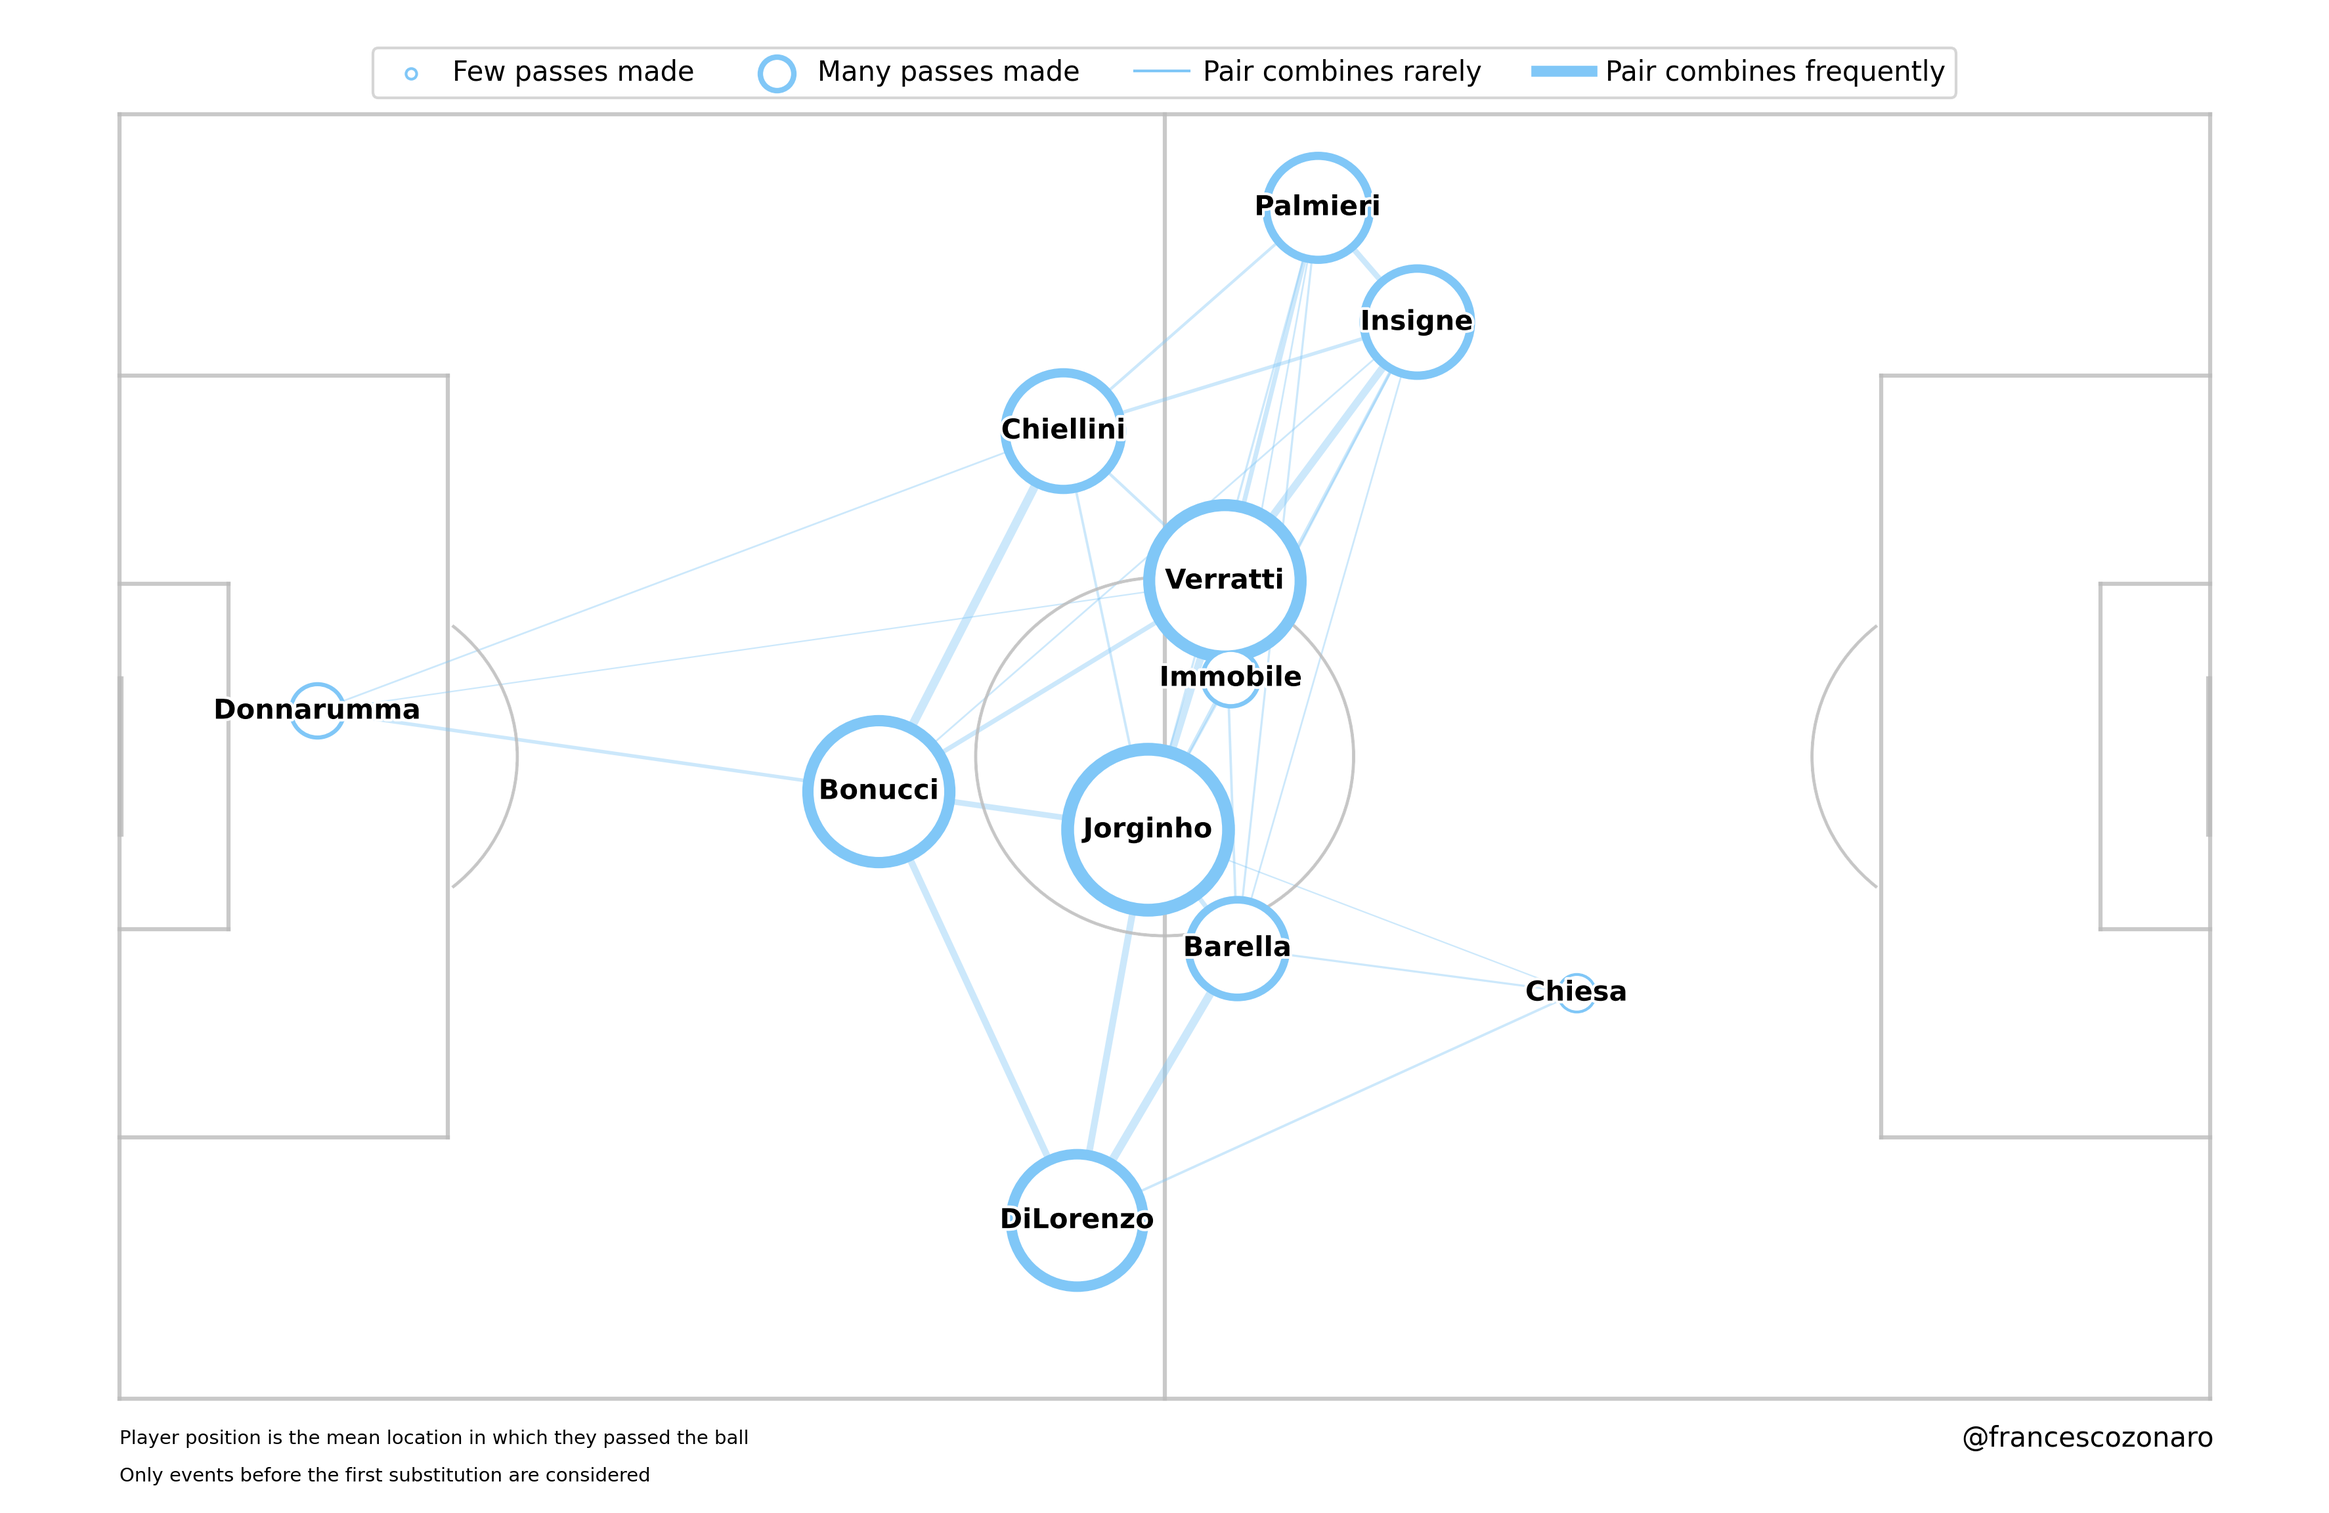
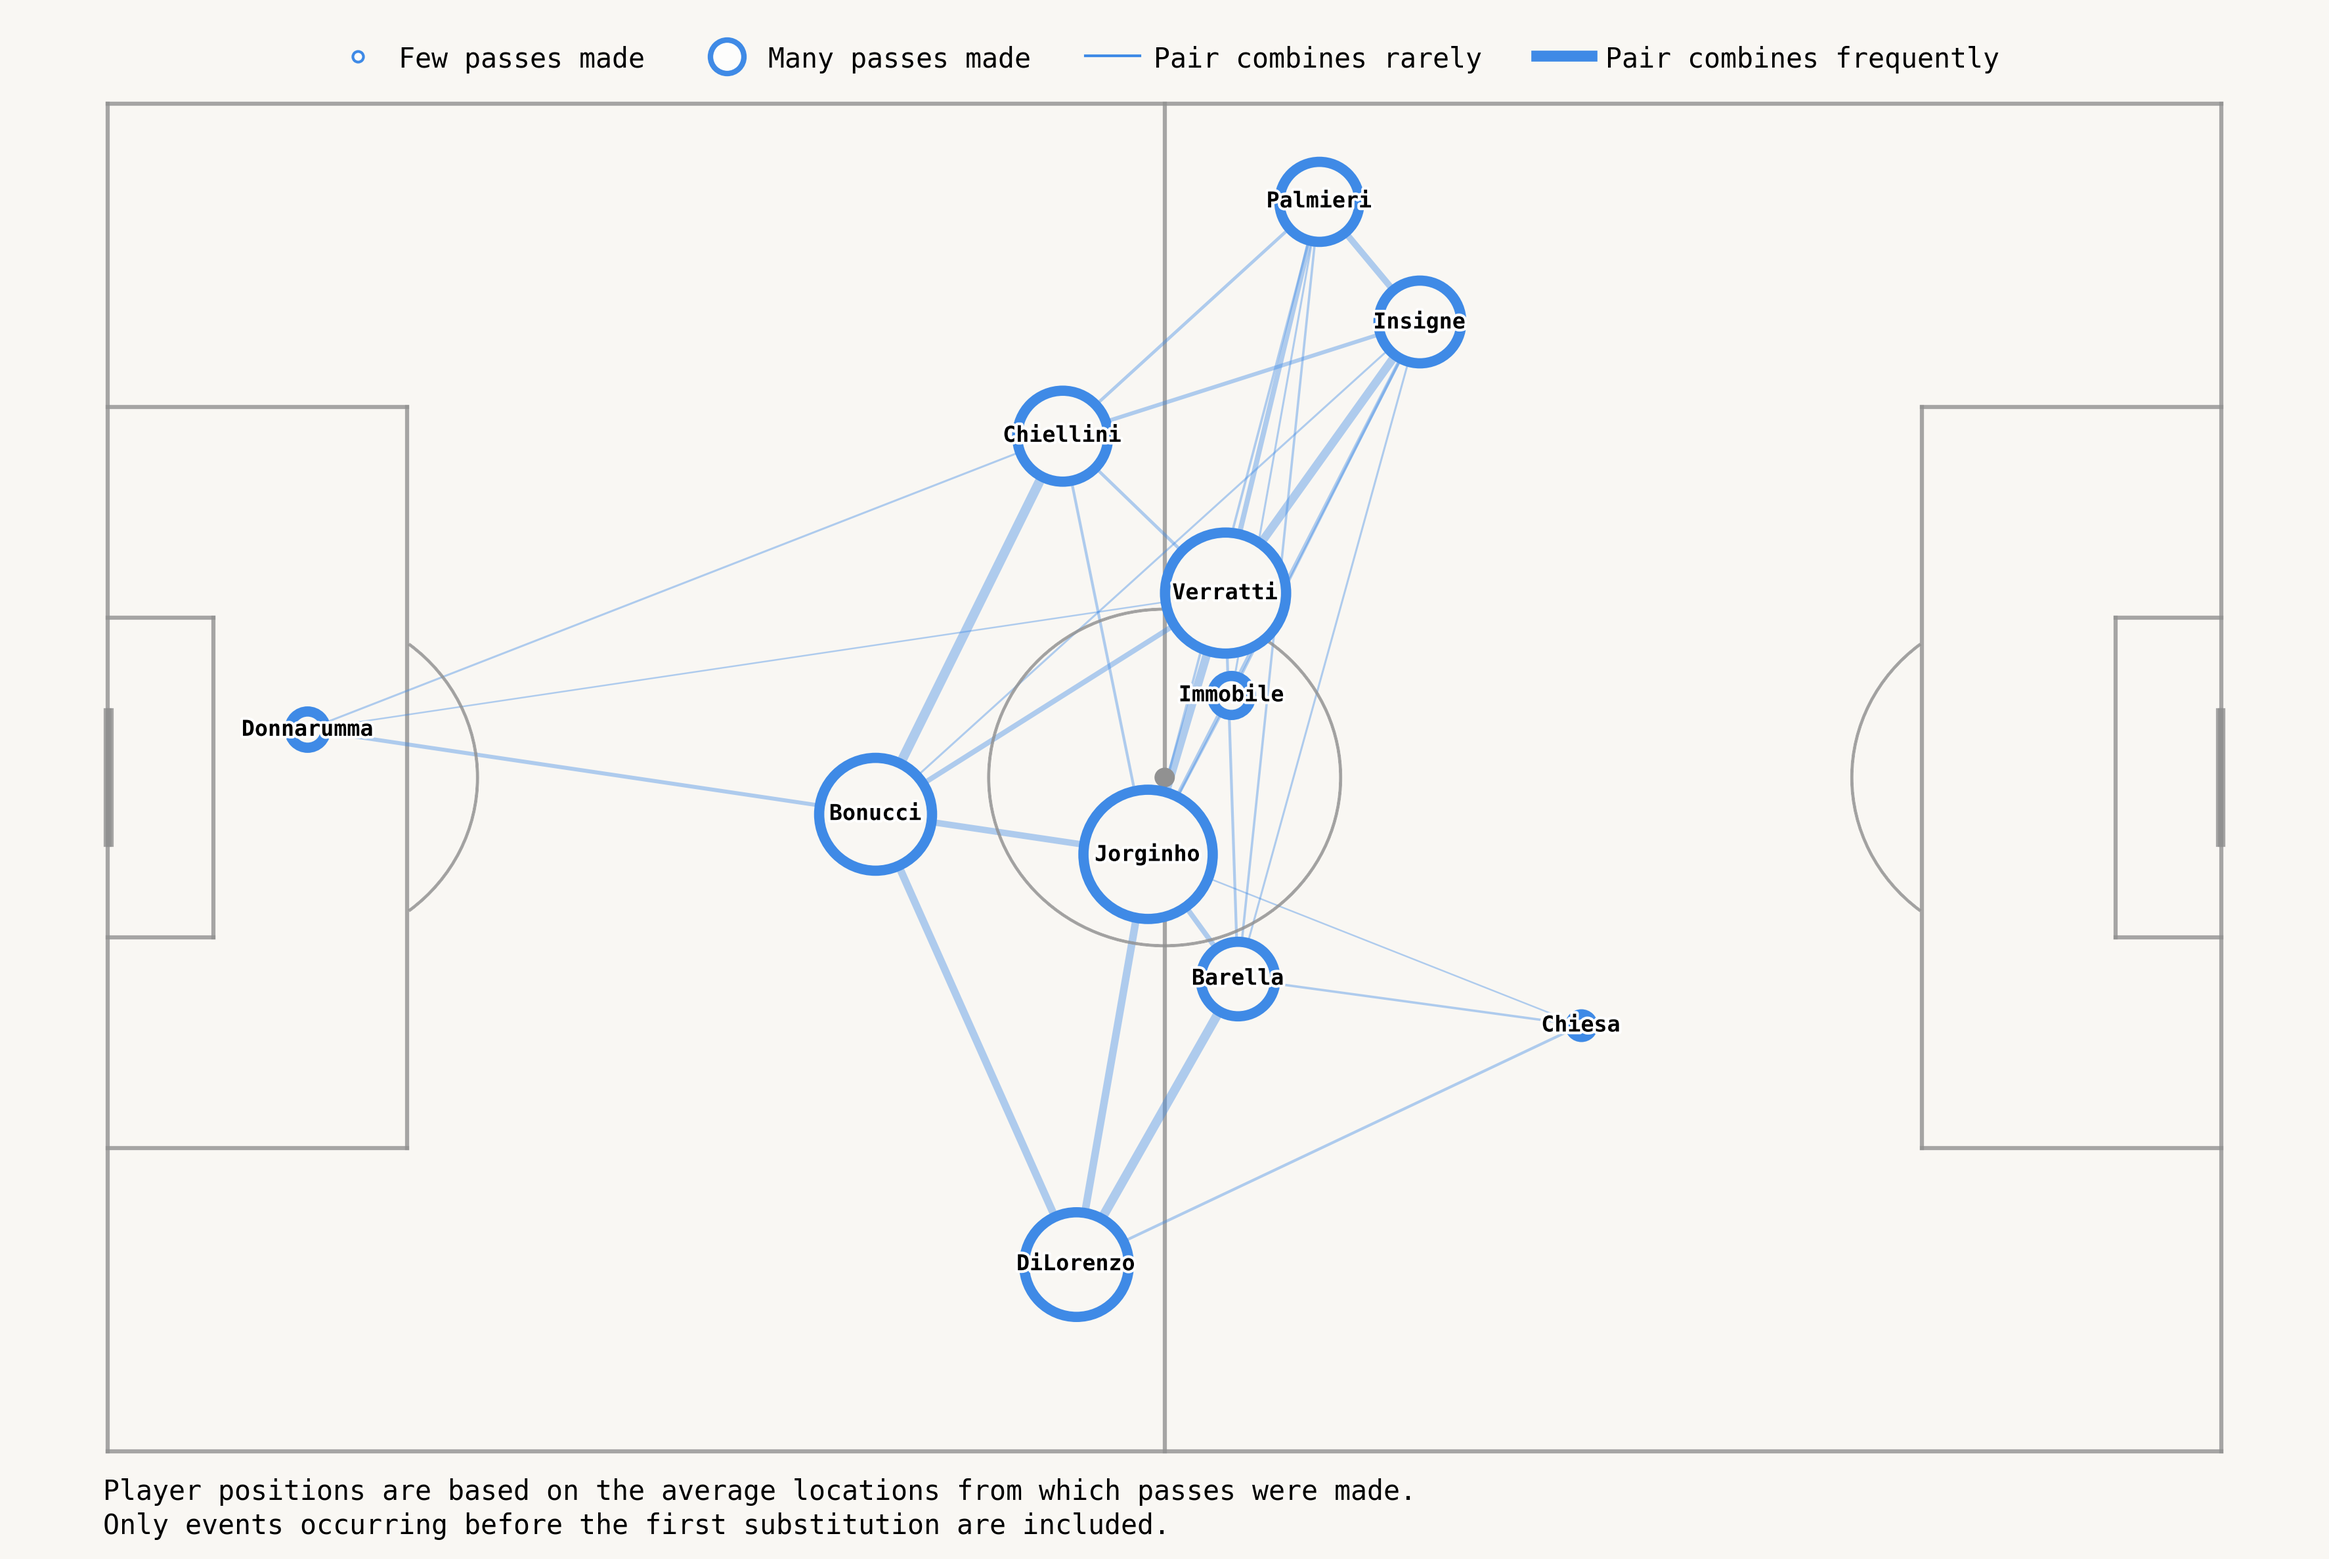
reworking texts

diff --git a/src/statsbomb-showcase/StatsbombShowcase.jsx b/src/statsbomb-showcase/StatsbombShowcase.jsx
@@ -22,13 +22,12 @@ function StatsbombShowcase() {
       <div className="mt-12">
         <div className="leading-6 text-justify">
           Understanding a football team's dynamics is hardly a standardized
-          process since it involves considering various key factors like
-          players' quality and depth, manager's philosophy, team chemistry,
-          tactical adaptability, current form and so on. The following visuals
-          are meant to offer a glimpse into what can be done with Statsbomb
-          official data, reflecting my own curiosity about its potential
-          applications. The code developed to generate these visuals, utilizing
-          the free data provided by Statsbomb, is available in the{" "}
+          process — it involves considering factors like player quality and
+          depth, managerial philosophy, team chemistry, current form and many
+          more. The following visuals explore what can be done with Statsbomb's
+          official data, reflecting my own curiosity about its potential. The
+          code developed to generate these visuals, referencing the free data
+          provided by Statsbomb, is available in the{" "}
           <a
             href="https://github.com/francescozonaro/statsbombplot"
             target="_blank"
@@ -42,15 +41,14 @@ function StatsbombShowcase() {
       <div className="section-wrapper">
         <div className="visual-title">Generic events scatterplot</div>
         <div className="visual-description">
-          Mapping the location of certain events on the pitch can be highly
-          valuable in pinpointing specific zones where the team executes
-          particular actions, enabling strategic analysis and targeted
-          performance optimization. It can be a single event type (eg. Pressure,
-          Dribble, Shot, etc.) or a group of events (eg. Def. Action: Block,
-          Clearance, Interception, Ball Recovery). The following examples
-          highlight Italy's pressures and defensive actions during the EURO 2020
-          Final against England, with a focus on the mean height of the events,
-          which is represented by the dotted red line.
+          Mapping the location of certain events on the pitch helps pinpoint
+          specific zones where the team executes particular actions, revealing
+          patterns that inform tactical decisions. It can cover a single event
+          type (e.g. Pressure, Dribble, Shot, etc.) or a group of events (e.g.
+          Defensive Actions: Block, Clearance, Interception, Ball Recovery). The
+          examples below highlight Italy's pressures and defensive actions
+          during the EURO 2020 Final against England. Note that the dotted red
+          line marks the average vertical position of each event cluster.
         </div>
 
         <div className="visual-previews">
@@ -80,18 +78,15 @@ function StatsbombShowcase() {
       <div className="section-wrapper">
         <div className="visual-title">Shotmap</div>
         <div className="visual-description">
-          One of the most common visuals when analysing a football match. It can
-          be helpful when trying to find shooting patterns and can offer
-          insights into the spatial distribution of the shots taken by a certain
-          team, helping to identify strengths and weaknesses. In this example,
-          different shot types (Goal, On Target, Off Target) are identified with
-          different markers. The size of the marker is directly proportional to
-          the xG associated with the shot. The following example illustrates the
-          shotmap of the Euro 2020 Final. The shot distribution reflects Italy's
-          need to get back into the game after Luke Shaw's early goal and their
-          willingness to take more risks, while England's shotmap suggests a
-          more cautious approach, relying on high-quality chances created within
-          the box.
+          A staple of football analytics, shot maps help identify shooting
+          patterns and the spatial distribution of attempts, highlighting teams
+          strengths and weaknesses in front of goal. Each shot type (Goal, On
+          Target, Off Target) is distinguished by marker shape, with deeper
+          color indicating higher xG. The example below shows the shotmap of the
+          Euro 2020 Final. Italy's distribution reflects their need to get back
+          into the game after Luke Shaw's early goal and their willingness to
+          take more risks, while England's suggests a more cautious approach,
+          relying on high-quality chances created within the box.
         </div>
 
         <div className="visual-previews">
@@ -111,26 +106,24 @@ function StatsbombShowcase() {
       <div className="section-wrapper">
         <div className="visual-title">Progressive actions map</div>
         <div className="visual-description">
-          Ball progression is a very valuable skill a player can have,
-          especially if performed in the opponent half. Even when the carry/pass
-          is not directly creating the opportunity for a shot, bringing the ball
-          forward is of course fundamental to reach favourable positions where
-          playmakers can find the final defence-splitting pass. Various
-          adjustments can be made in what can be considered a slightly more
-          refined yet still very simple plot. In this case the{" "}
+          Ball progression — especially in the opponent's half — is one of the
+          most valuable skills in modern football. Even when a carry or pass
+          doesn't directly create a shooting opportunity, bringing the ball
+          forward is fundamental to reach favourable positions where playmakers
+          can find that final defence-splitting pass. This plot applies the{" "}
           <a
             href="https://dataglossary.wyscout.com/progressive_pass/"
             target="_blank"
           >
             wyscout definition of Progressive Action
           </a>{" "}
-          has been used to determine eligible actions, but there are various
-          other possible implementations. The following example illustrates the
-          progressive actions attempted and completed by Federico Chiesa during
-          the Euro 2020 Final. One of the players with the most carried meters
-          in the final, Chiesa's progressive actions were crucial in Italy's
-          offensive play, as they often led to key attacking opportunities and
-          helped to break down England's defensive structure.
+          to determine eligible actions, though other definitions can be applied
+          just as easily. The example below shows both attempted and completed
+          progressive actions by Federico Chiesa during the Euro 2020 Final.
+          Among the players with the most carried meters in the final, Chiesa's
+          progressive actions were crucial in Italy's offensive play, as they
+          often led to key attacking opportunities, breaking down England's
+          defensive structure.
         </div>
 
         <div className="visual-previews">
@@ -164,16 +157,16 @@ function StatsbombShowcase() {
           interactions, and overall playing strategies. It visualizes passing
           patterns between players during a match, helping to understand how
           possession is distributed and identify key playmakers. The following
-          example illustrates the passing network of the Italian team during the
-          Euro 2020 Final, where the thickness of the edges is proportional to
-          the number of passes exchanged between players and the size of the
+          example illustrates the passing networks during the Euro 2020 Final
+          between Italy and England. The thickness of the edges is proportional
+          to the number of passes exchanged between players and the size of the
           nodes is proportional to the total number of passes attempted by each
-          player. The plot highlights the central role of Jorginho in Italy's
-          build-up play, as well as the significant involvement of players like
-          Verratti and Barella in maintaining possession and facilitating ball
-          circulation. Additionally, it reveals the strong usage of the
-          defensive line during build up, with players like Bonucci and
-          Chiellini frequently involved in the passing sequences.
+          player. Focusing on Italy's network, the plot highlights the central
+          role of Jorginho in the build-up play, as well as the significant
+          contributions of Verratti and Barella in maintaining possession.
+          Additionally, it reveals the heavy involvement of the defensive line
+          during build up, with players like Bonucci and Chiellini frequently
+          involved in passing sequences.
         </div>
 
         <div className="visual-previews">
@@ -185,6 +178,16 @@ function StatsbombShowcase() {
             <img
               src="img/statsbomb-showcase/ItalyPassingNetwork.png"
               alt="Italy Passing Network"
+            ></img>
+          </a>
+          <a
+            href="img/statsbomb-showcase/EnglandPassingNetwork.png"
+            target="_blank"
+            rel="noopener noreferrer"
+          >
+            <img
+              src="img/statsbomb-showcase/EnglandPassingNetwork.png"
+              alt="England Passing Network"
             ></img>
           </a>
         </div>
